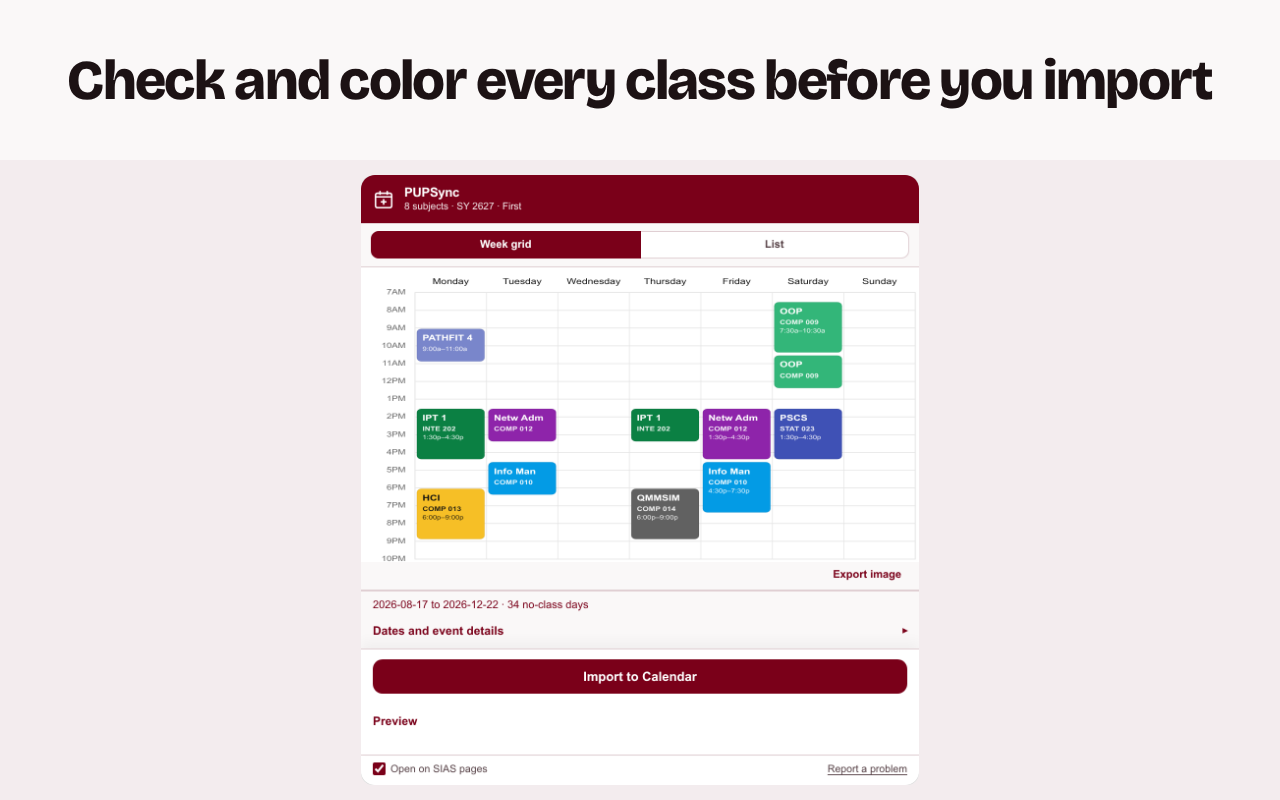
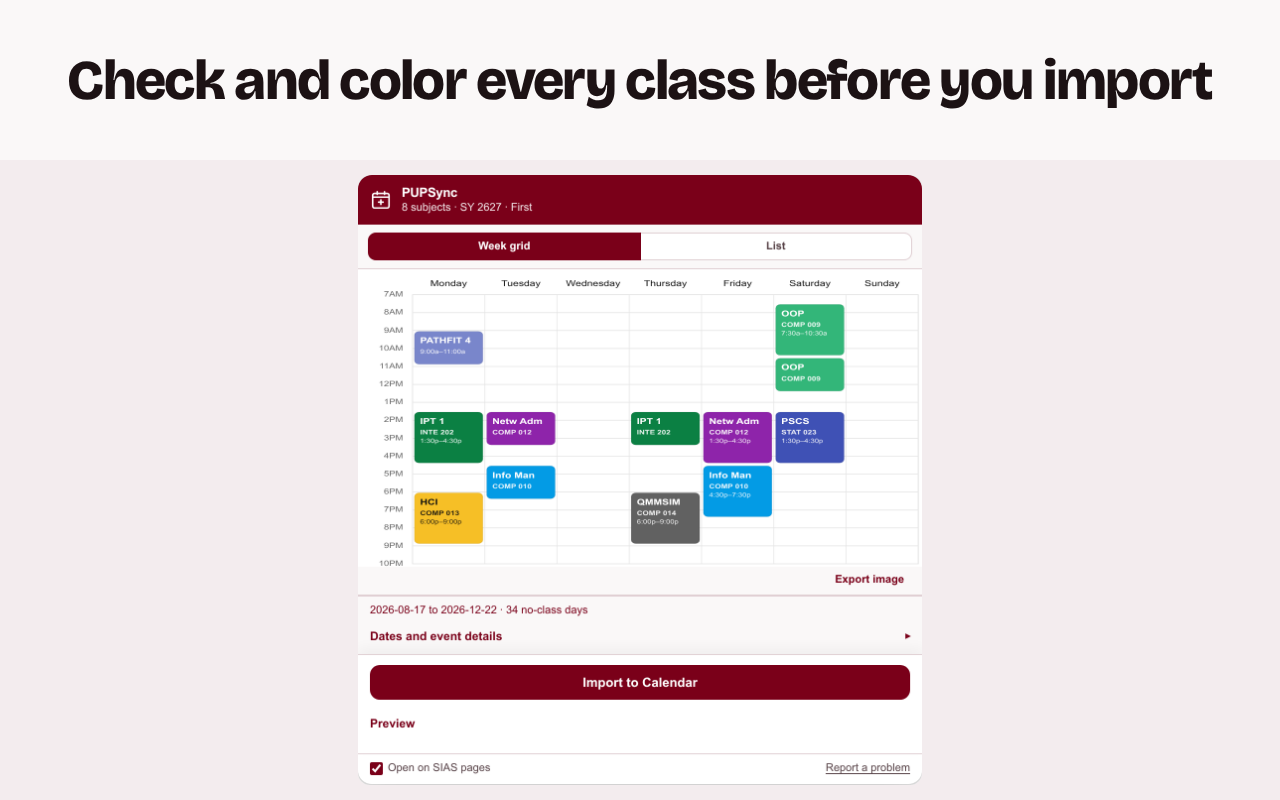
Homepage: phone crops for the import results, 2-row step 1 crop, step 3 box fits its crop

diff --git a/site/index.html b/site/index.html
@@ -70,7 +70,7 @@
         <figure class="hero-media shot">
           <picture>
             <source media="(max-width: 640px)" srcset="assets/product/popup-grid-only.png" width="1136" height="602" />
-            <img src="assets/product/popup-week-grid.png" width="1136" height="1242"
+            <img src="assets/product/popup-week-grid.png" width="1136" height="1230"
               alt="The PUPSync popup showing Juan Dela Cruz's week: eight PUP classes as colored blocks from Monday to Saturday"
               loading="eager" decoding="async" />
           </picture>
@@ -108,17 +108,17 @@
         <h2 id="how-title">How it works</h2>
         <ol class="steps">
           <li>
-            <figure class="shot"><picture><source media="(max-width: 640px)" srcset="assets/product/sias-table-phone.png" width="586" height="894" /><img src="assets/product/sias-table-crop.png" width="902" height="736" alt="The SIAS schedule table: the header row and the first classes, with codes, descriptions and times" loading="lazy" /></picture></figure>
+            <figure class="shot"><picture><source media="(max-width: 640px)" srcset="assets/product/sias-step-phone.png" width="580" height="526" /><img src="assets/product/sias-table-crop.png" width="902" height="736" alt="The SIAS schedule table: the header row and the first classes, with codes, descriptions and times" loading="lazy" /></picture></figure>
             <h3>Open your SIAS schedule</h3>
             <p>Log in and open the Schedule page.</p>
           </li>
           <li>
-            <figure class="shot"><img src="assets/product/popup-chip-crop.png" width="464" height="482" alt="Editing COMP 013 in PUPSync: its day and time, the short name HCI, and a color" loading="lazy" /></figure>
+            <figure class="shot"><img src="assets/product/popup-chip-crop.png" width="464" height="498" alt="Editing COMP 013 in PUPSync: its day and time, the short name HCI, and a color" loading="lazy" /></figure>
             <h3>Check and color</h3>
             <p>See your week first. Rename or recolor any class.</p>
           </li>
           <li>
-            <figure class="shot"><img src="assets/product/popup-success-crop.png" width="1136" height="238" alt="PUPSync after an import: In Google Calendar: 12 added" loading="lazy" /></figure>
+            <figure class="shot shot-done"><picture><source media="(max-width: 640px)" srcset="assets/product/popup-success-phone.png" width="576" height="240" /><img src="assets/product/popup-done-crop.png" width="576" height="328" alt="PUPSync after an import: In Google Calendar: 12 added, with an Open Google Calendar button" loading="lazy" /></picture></figure>
             <h3>Import</h3>
             <p>Sign in with Google. Classes repeat weekly until the sem ends.</p>
           </li>
@@ -137,12 +137,12 @@
             <p>Breaks, holidays and exam weeks stay empty.</p>
           </article>
           <article class="claim claim-fit">
-            <figure class="shot"><img src="assets/product/popup-reimport-crop.png" width="1136" height="238" alt="PUPSync after importing again: Already up to date. Nothing changed." loading="lazy" /></figure>
+            <figure class="shot"><picture><source media="(max-width: 640px)" srcset="assets/product/popup-reimport-phone.png" width="576" height="240" /><img src="assets/product/popup-reimport-crop.png" width="1136" height="240" alt="PUPSync after importing again: Already up to date. Nothing changed." loading="lazy" /></picture></figure>
             <h3>Import again, no duplicates</h3>
             <p>Changed sections or dropped a class? Import again to update.</p>
           </article>
           <article class="claim">
-            <figure class="shot"><picture><source media="(max-width: 640px)" srcset="assets/product/popup-list-phone.png" width="576" height="328" /><img src="assets/product/popup-list.png" width="1136" height="1304" alt="PUPSync list view: each subject with its time, color dot and the Google Calendar title it will get" loading="lazy" /></picture></figure>
+            <figure class="shot"><picture><source media="(max-width: 640px)" srcset="assets/product/popup-list-phone.png" width="576" height="338" /><img src="assets/product/popup-list.png" width="1136" height="1292" alt="PUPSync list view: each subject with its time, color dot and the Google Calendar title it will get" loading="lazy" /></picture></figure>
             <h3>Your colors and titles</h3>
             <p>Pick a color and calendar title for each class.</p>
           </article>
@@ -162,7 +162,7 @@
           <h2 id="gwa-title">Your GWA too</h2>
           <p>Open SIAS Grades to see your GWA and Latin honors estimate. The registrar decides.</p>
         </div>
-        <figure class="shot gwa-shot"><img src="assets/product/popup-gwa-magna.png" width="576" height="926" alt="PUPSync grades view: overall GWA 1.28, on track for Magna Cum Laude" loading="lazy" /></figure>
+        <figure class="shot gwa-shot"><img src="assets/product/popup-gwa-magna.png" width="576" height="928" alt="PUPSync grades view: overall GWA 1.28, on track for Magna Cum Laude" loading="lazy" /></figure>
       </div>
     </section>
 
@@ -196,7 +196,7 @@
           <p>More in the <a href="/privacy-policy.html">privacy policy</a>.</p>
         </div>
         <figure class="shot data-shot">
-          <div class="data-frame"><picture><source media="(max-width: 640px)" srcset="assets/product/popup-preview-phone.png" width="576" height="246" /><img src="assets/product/popup-preview-crop.png" width="1136" height="380" alt="PUPSync preview listing every class event it will add, before anything is sent to Google Calendar" loading="lazy" /></picture></div>
+          <div class="data-frame"><picture><source media="(max-width: 640px)" srcset="assets/product/popup-preview-phone.png" width="576" height="264" /><img src="assets/product/popup-preview-crop.png" width="1136" height="382" alt="PUPSync preview listing every class event it will add, before anything is sent to Google Calendar" loading="lazy" /></picture></div>
           <figcaption>See every event before it's added.</figcaption>
         </figure>
       </div>

diff --git a/site/styles.css b/site/styles.css
@@ -337,6 +337,26 @@ p {
   border-radius: 0;
 }
 
+/* Step 3: the box takes the crop's own shape instead of a 4:3 frame around it.
+   Subgrid rows keep the three step titles on one line anyway. */
+.steps .shot.shot-done {
+  aspect-ratio: 576 / 328;
+  padding: 0;
+}
+
+@supports (grid-template-rows: subgrid) {
+  .steps > li {
+    display: grid;
+    grid-row: span 3;
+    grid-template-rows: subgrid;
+    row-gap: 0;
+  }
+
+  .steps > li > .shot {
+    align-self: start;
+  }
+}
+
 /* 4. Claims */
 .claims {
   display: grid;
